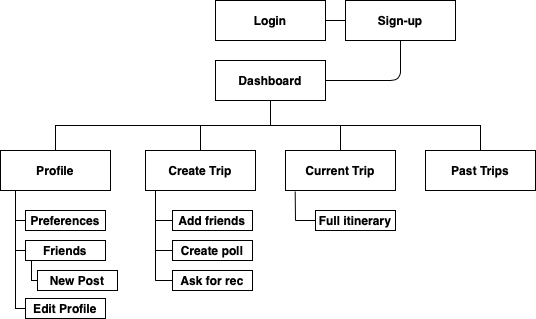
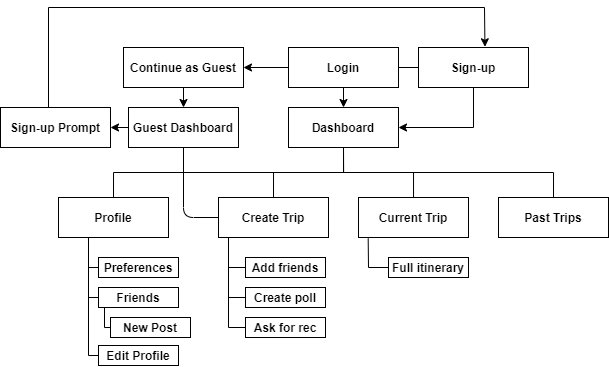
Updated Map, changed Login, added Guest Dashboards

diff --git a/README.md b/README.md
@@ -8,7 +8,7 @@
 ### Wireframes
 
 #### Login
-This is the very first screen users will encounter when opening the app for the first time. It simply asks for the user's email and password, and allows for them to press the login button. If the user does not already have an account, then they can choose to sign up.
+This is the very first screen users will encounter when opening the app for the first time. It simply asks for the user's email and password, and allows for them to press the login button. If the user does not already have an account, then they can choose to sign up. Additionally, there will be an option to continue as a guest without registering; they will be redirected to an empty dashboard and the only feature available to them without signing up will be to plan a new trip.
 
 ![](/ux-design/Login.png)
 
@@ -21,6 +21,13 @@ If the user opts to create a new account, we will ask for their name, email, bir
 The dashboard is where the user will be directed to once they are logged in, and is a home base for all of their adventures. The top of the screen will show any friend activity. Additionally, this is where the user will see the options to create a new trip, view their past and current trips, or view their profile.
 
 ![](/ux-design/Dashboard.png)
+
+#### Guest Dashboard
+This screen is the same as the normal dashboard, except it is blank and only allows for the guest to access the New Trip feature. When the guest attempts to access any other feature, a dynamic pop-up is displayed that prompts the guest to register for full access to the app. 
+
+![](/ux-design/GuestDashboard.png)
+
+![](/ux-design/GuestDashboardPrompt.png)
 
 #### Profile
 On their profile, users will be able to view all of their account details (name, birthdate, friends list) and view any past posts they have made. Additionally, they can create a new post.
